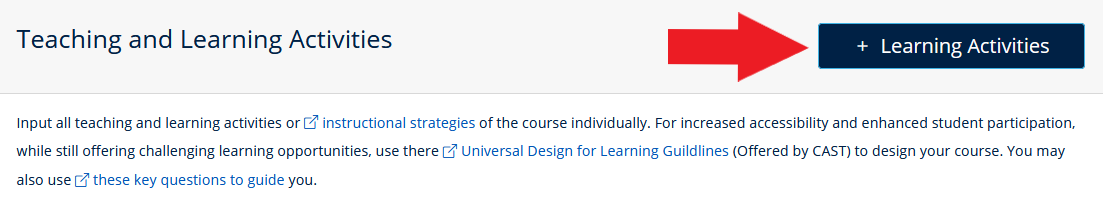
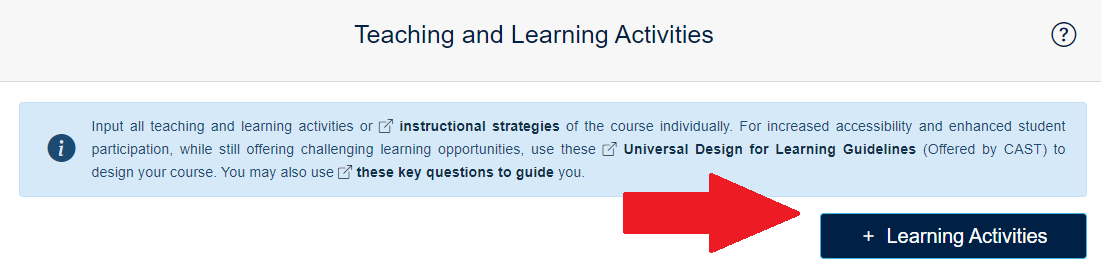
Created Excel Confirm Download

diff --git a/resources/views/modals/confirmDownloadModal.blade.php b/resources/views/modals/confirmDownloadModal.blade.php
@@ -1,0 +1,87 @@
+
+<meta name="csrf-token" content="{{ csrf_token() }}">
+                <!-- Select program content modal -->
+                
+                <div class="modal" id="confirmDownloadModal" tabindex="-1" aria-labelledby="confirmDownloadModalLabel" aria-hidden="true" data-bs-backdrop="static">
+                    <div class="modal-dialog modal-dialog-scrollable modal-dialog-centered ">
+                        <div class="modal-content">
+                            <div class="modal-header">
+                                <h5 class="modal-title" id="confirmDownloadModalLabel">Confirm Action before Downloading</h5>
+                                
+                                <button type="button" class="btn-close" data-bs-dismiss="modal" aria-label="Close"></button>
+                                    
+                            </div> 
+            
+                            <div class="modal-body" style="height: auto;">
+                                <div class="alert alert-info d-flex align-items-center ml-3 mr-3" role="alert" style="text-align:justify">
+                                    <i class="bi bi-info-circle-fill pr-2 fs-1"></i>                        
+                                        <div> Google Chrome and Mozilla Firefox are strongly recommended for this feature.</div>
+                                        
+                                </div>
+                                This feature is not optimized for use with other web browsers and may perform unexpectedly. 
+                                            
+                            </div>
+                            <div class="modal-footer">
+                                <button style="width:60px" type="button" class="btn btn-secondary btn-sm" data-bs-dismiss="modal">Cancel</button>
+                                <button id="confirmDownloadBtn"  data-bs-route="{{route('programs.spreadsheet', $program->program_id)}}" class="btn btn-primary">Confirm and Download</button>
+                            </div>
+
+                        </div>
+                    </div>
+                </div> 
+                <!-- End of select program content modal --> 
+                <script type="application/javascript">
+                    
+                    
+    $(document).ready(function () {
+        var xhr;
+        
+    });
+
+
+    function abort(event) {
+        if (xhr) {
+            // abort XMLHttpRequest
+            xhr.abort();
+            // hide download modal
+            $('#downloadProgressModal').modal('hide');
+        }
+    }
+
+    // show the error toast
+    function showErrorToast() {
+        var errorToast = $("#errorToast");
+        if (errorToast.hasClass("hide")) {
+            errorToast.removeClass("hide");
+            errorToast.addClass("show");
+        } 
+    }
+
+    // hide the error toast
+    function hideErrorToast() {
+        var errorToast = $("#errorToast");
+        if (errorToast.hasClass("show")) {
+            errorToast.removeClass("show");
+            errorToast.addClass("hide");
+        } 
+    }
+
+
+    function deletePDF(route) {
+        var token = $("meta[name='csrf-token']").attr("content");
+        $.ajax({
+            type: "DELETE",
+            url: route,
+            headers: {
+                'X-CSRF-Token': '{{ csrf_token() }}',
+            },
+            dataType: "text",
+            success: (data, textStatus, jqXHR) => {
+                console.log(data);
+            },
+            error: (jqXHR, textStatus, error) => {
+                console.log(error);
+            },
+        }); 
+    }
+</script>

diff --git a/resources/views/modals/downloadProgressModal.blade.php b/resources/views/modals/downloadProgressModal.blade.php
@@ -35,19 +35,18 @@
         $("#downloadPDFBtn").click((e) =>
             download(e.currentTarget)
         );
-        
-        $("#downloadExcelBtn").click((e) =>
-            download(e.currentTarget)
+        $("#confirmDownloadBtn").click((e) =>
+            downloadExcel(e.currentTarget)
         );
         $("#cancelDownloadBtn").click((e) =>
             abort(e.currentTarget)
         )
         
-       
     });
 
     function download(trigger) {
         var route = $(trigger).data("route");
+        route = $("#downloadPartialPDFBtn").data("route");
         xhr = $.ajax({
             type: "GET",
             url: route,
@@ -83,7 +82,44 @@
             },
         });     
     }
-
+    function downloadExcel(trigger) {
+        var route = "{{route('programs.spreadsheet', $program->program_id)}}";
+        xhr = $.ajax({
+            type: "GET",
+            url: route,
+            dataType: "text",
+            beforeSend: (jqXHR, settings) => {
+                // hide confirmation modal and show download modal
+                $('#confirmDownloadModal').modal('hide');
+                $('#downloadProgressModal').modal('show');
+            },  
+            success: (data, textStatus, jqXHR) => {
+                // hide download modal
+                $('#downloadProgressModal').modal('hide');
+                // check if controller handled an error
+                if (data == -1) 
+                    showErrorToast()
+                else {
+                    // close error toast if open
+                    hideErrorToast();
+                    // Set href as a local object URL
+                    $('#save-file').attr('href', data);
+                    // trigger download
+                    $("#save-file")[0].click();
+                    // delete pdf summary after 15 sec/15,000 ms
+                    setTimeout(() => {deletePDF(route)}, 15000);
+                }
+            },
+            error: (jqXHR, textStatus, error) => {
+                // hide download modal
+                $('#downloadProgressModal').modal('hide');
+                if (textStatus != "abort") {
+                    // show error toast 
+                    showErrorToast();                
+                }
+            },
+        });     
+    }
     function abort(event) {
         if (xhr) {
             // abort XMLHttpRequest

diff --git a/resources/views/programs/wizard/step4.blade.php b/resources/views/programs/wizard/step4.blade.php
@@ -44,6 +44,7 @@
             <!-- TEST CARD FOR NEW LAYOUT -->
             <div class="card">
                 <!-- Include download progress subview for PDF -->
+                @include('modals.confirmDownloadModal', ['program' => $program])
                 @include('modals.setContentPDF', ['program' => $program])
                 @include('modals.downloadProgressModal', ['program' => $program])
 
@@ -56,7 +57,7 @@
                                 </button>
                                 <ul class="dropdown-menu" aria-labelledby="downloadBtn">
                                     <li><button type="button" class="dropdown-item" data-bs-toggle="modal" data-bs-target="#setContentPDF"><i class="bi bi-file-pdf-fill text-danger"></i> PDF </button></li>
-                                    <li><a id="downloadExcelBtn" class="dropdown-item" data-route="{{route('programs.spreadsheet', $program->program_id)}}"><i class="bi bi-file-earmark-spreadsheet-fill text-success"></i> Excel </a></li>
+                                    <li><button type="button" class="dropdown-item" data-bs-toggle="modal" data-bs-target="#confirmDownloadModal"><i class="bi bi-file-earmark-spreadsheet-fill text-success"></i> Excel (Chrome and Firefox Only)</button></li>
                                 </ul>
                                 
                             </div>
@@ -66,7 +67,7 @@
                             Program Overview
                         </div>
 
-                        <div class="col text-right">
+                        <div class="col text-right"> 
                             <button id="programOverviewHelp" style="border: none; background: none; outline: none;" data-bs-toggle="modal" href="#guideModal">
                                 <i class="bi bi-question-circle" style="color:#002145;"></i>
                             </button>

diff --git a/resources/views/courses/wizard/step3.blade.php b/resources/views/courses/wizard/step3.blade.php
@@ -122,7 +122,7 @@
                         <i class="bi bi-info-circle-fill pr-2 fs-3"></i>                        
                         <div>
                             Input all teaching and learning activities or <a class="alert-link" target="_blank" rel="noopener noreferrer" href="https://teaching.cornell.edu/teaching-resources/teaching-cornell-guide/instructional-strategies"><i class="bi bi-box-arrow-up-right"></i> instructional strategies</a> of the course individually. For increased accessibility and enhanced student participation, while still offering challenging learning opportunities,
-                            use there <a class="alert-link" target="_blank" rel="noopener noreferrer" href="https://udlguidelines.cast.org/binaries/content/assets/udlguidelines/udlg-v2-2/udlg_graphicorganizer_v2-2_numbers-no.pdf"><i class="bi bi-box-arrow-up-right"></i> Universal Design for Learning Guidelines</a>
+                            use these <a class="alert-link" target="_blank" rel="noopener noreferrer" href="https://udlguidelines.cast.org/binaries/content/assets/udlguidelines/udlg-v2-2/udlg_graphicorganizer_v2-2_numbers-no.pdf"><i class="bi bi-box-arrow-up-right"></i> Universal Design for Learning Guidelines</a>
                             (Offered by CAST) to design your course. You may also use <a class="alert-link" target="_blank" rel="noopener noreferrer" href="https://udlguidelines.cast.org/binaries/content/assets/common/publications/articles/cast-udl-planningq-a11y.pdf"><i class="bi bi-box-arrow-up-right"></i> these key questions to guide</a> you.               
                         </div>
                     </div>

diff --git a/resources/views/pages/FAQ.blade.php b/resources/views/pages/FAQ.blade.php
@@ -13,6 +13,24 @@
             <div style="width: 100%;">
                 <h1 style="text-align:center;">FAQ</h1>
             </div>
+            
+            <div class="accordion" id="FAQAccordion13">
+                <div class="accordion-item mb-2">
+                    <!-- FAQ accordion header -->
+                    <h2 class="accordion-header fs-2" id="FAQAccordionHeader13">
+                        <button class="accordion-button collapsed program white-arrow" type="button" data-bs-toggle="collapse" data-bs-target="#collapseFAQAccordion13" aria-expanded="false" aria-controls="collapseFAQAccordion13">
+                            <h5>Which web browser is recommended?</h5>                        
+                        </button>
+                    </h2>
+                                                        
+                    <!-- FAQ Accordion body -->
+                    <div id="collapseFAQAccordion13" class="accordion-collapse collapse" aria-labelledby="FAQAccordionHeader13" data-bs-parent="FAQAccordion13">
+                        <div class="accordion-body lh-lg">
+                            <p>Google Chrome and Mozilla Firefox are strongly recommended. This tool is not optimized for use with other web browsers and may perform unexpectedly.</p>
+                        </div>
+                    </div>
+                </div>
+            </div> 
 
             <div class="accordion" id="FAQAccordion1">
                 <div class="accordion-item mb-2">

diff --git a/resources/views/layouts/guide.blade.php b/resources/views/layouts/guide.blade.php
@@ -499,6 +499,8 @@
             <img class="img center my-3" src="{{asset('/img/guide/TeachingandLearningActivities.PNG')}}" onclick="onClick(this)">
 
             <br>
+            <p class="help-p my-3 center" style="font-size:18px;">Not sure how to teach/embed career-related outcomes? Request a workshop from The Career Development Team for your classroom (<a href="https://students.ok.ubc.ca/career-experience/faculty-workshops/">click here</a>).</p>
+            <br>
             <div class="row">
                 <div class="col"><button class="btn btn-primary float-left w-100" onclick="setSAM()" style="color: white;"><i class="bi bi-arrow-left mr-2"></i> Student Assessment Methods (Step 2)</button></div>
                 <div class="col"><button class="btn btn-primary float-right w-100" onclick="setCourseAlignment()" style="color: white;">Course Alignment (Step 4) <i class="bi bi-arrow-right mr-2"></i></button></div>
